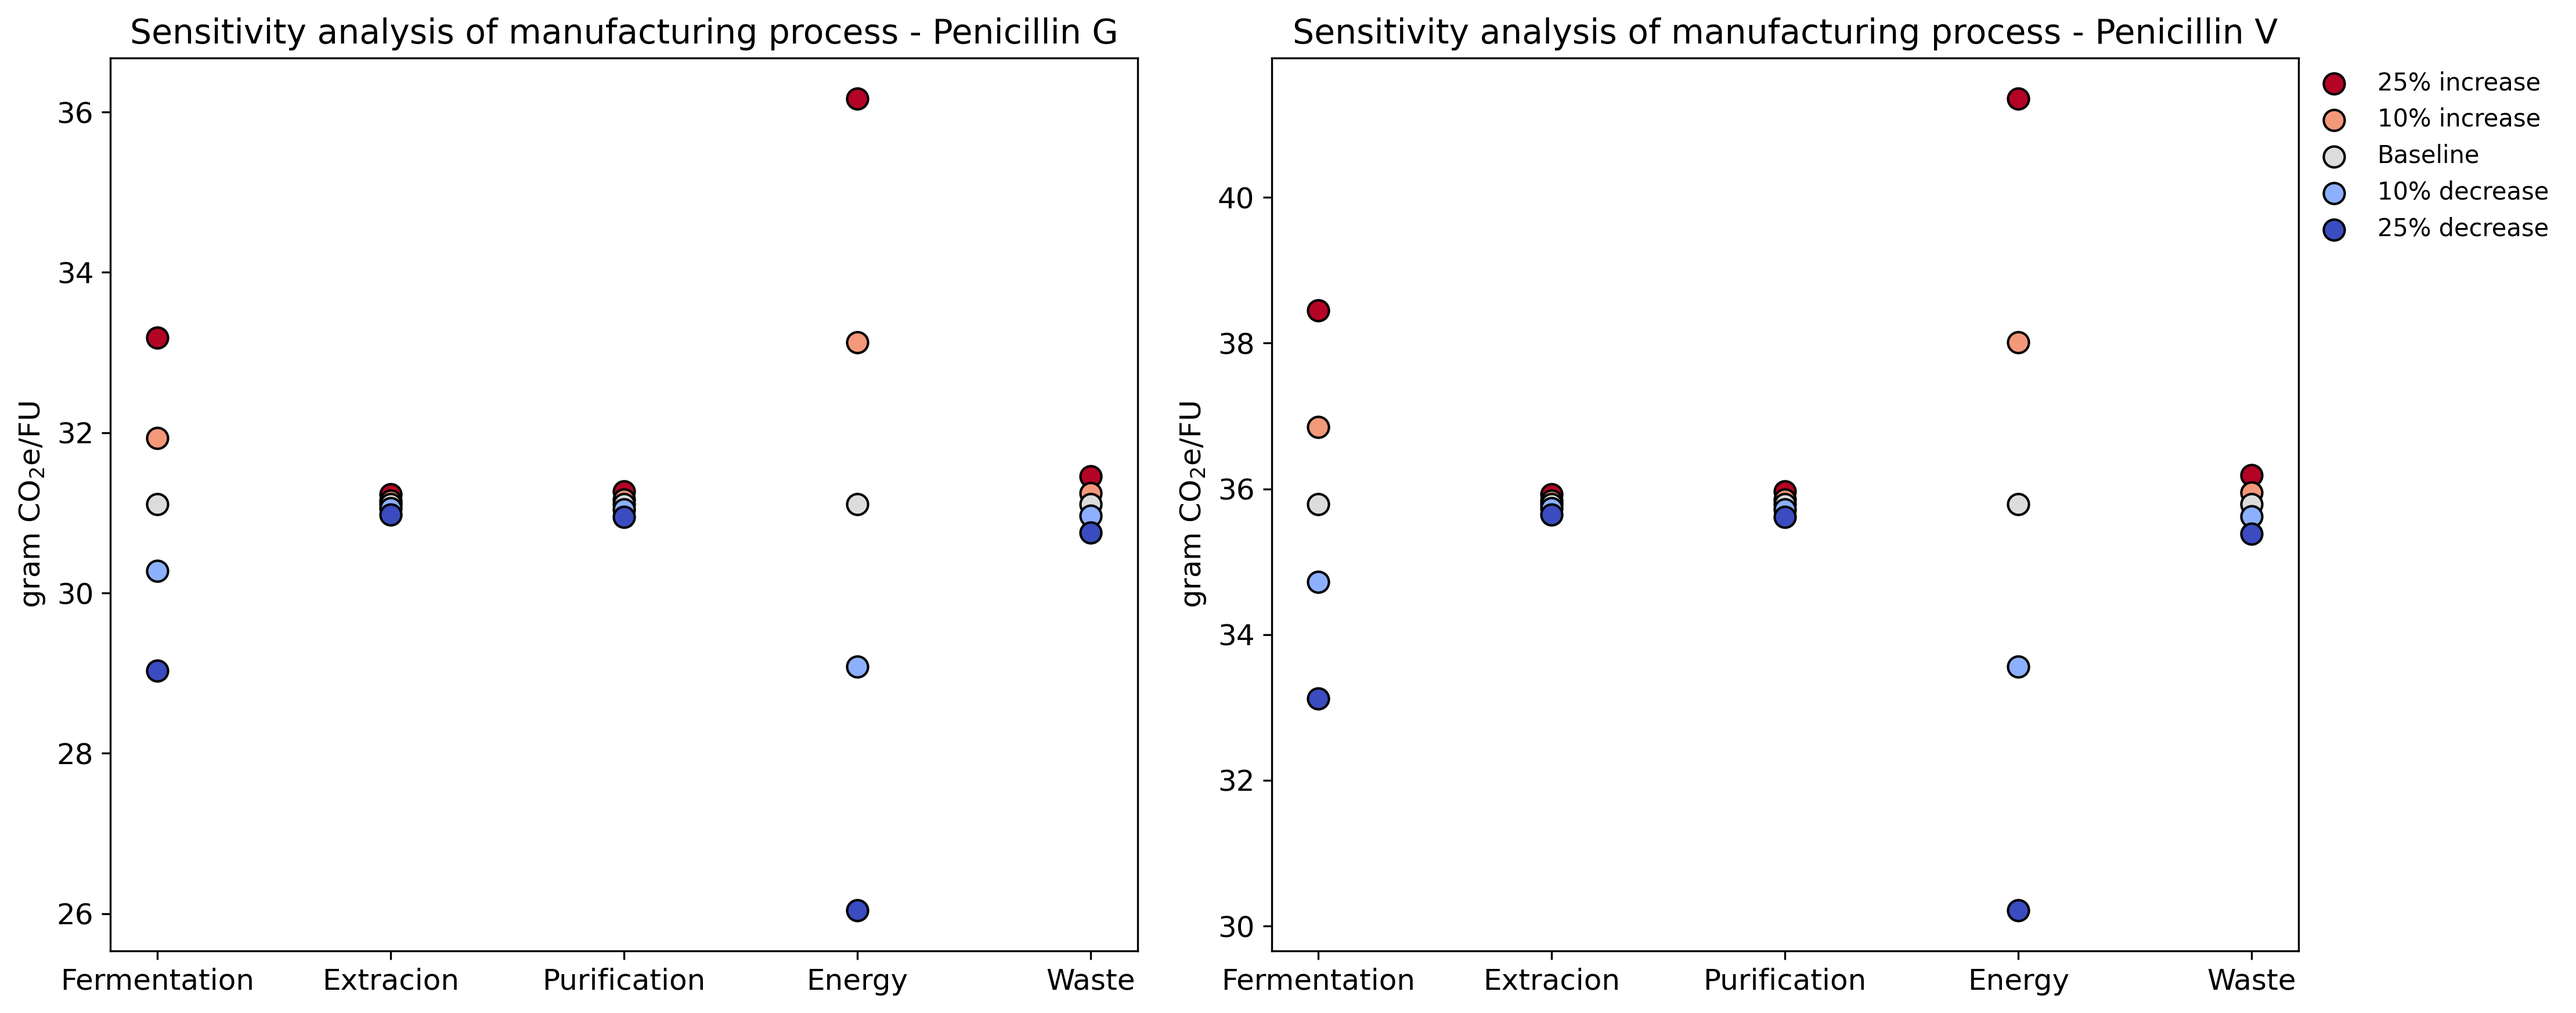
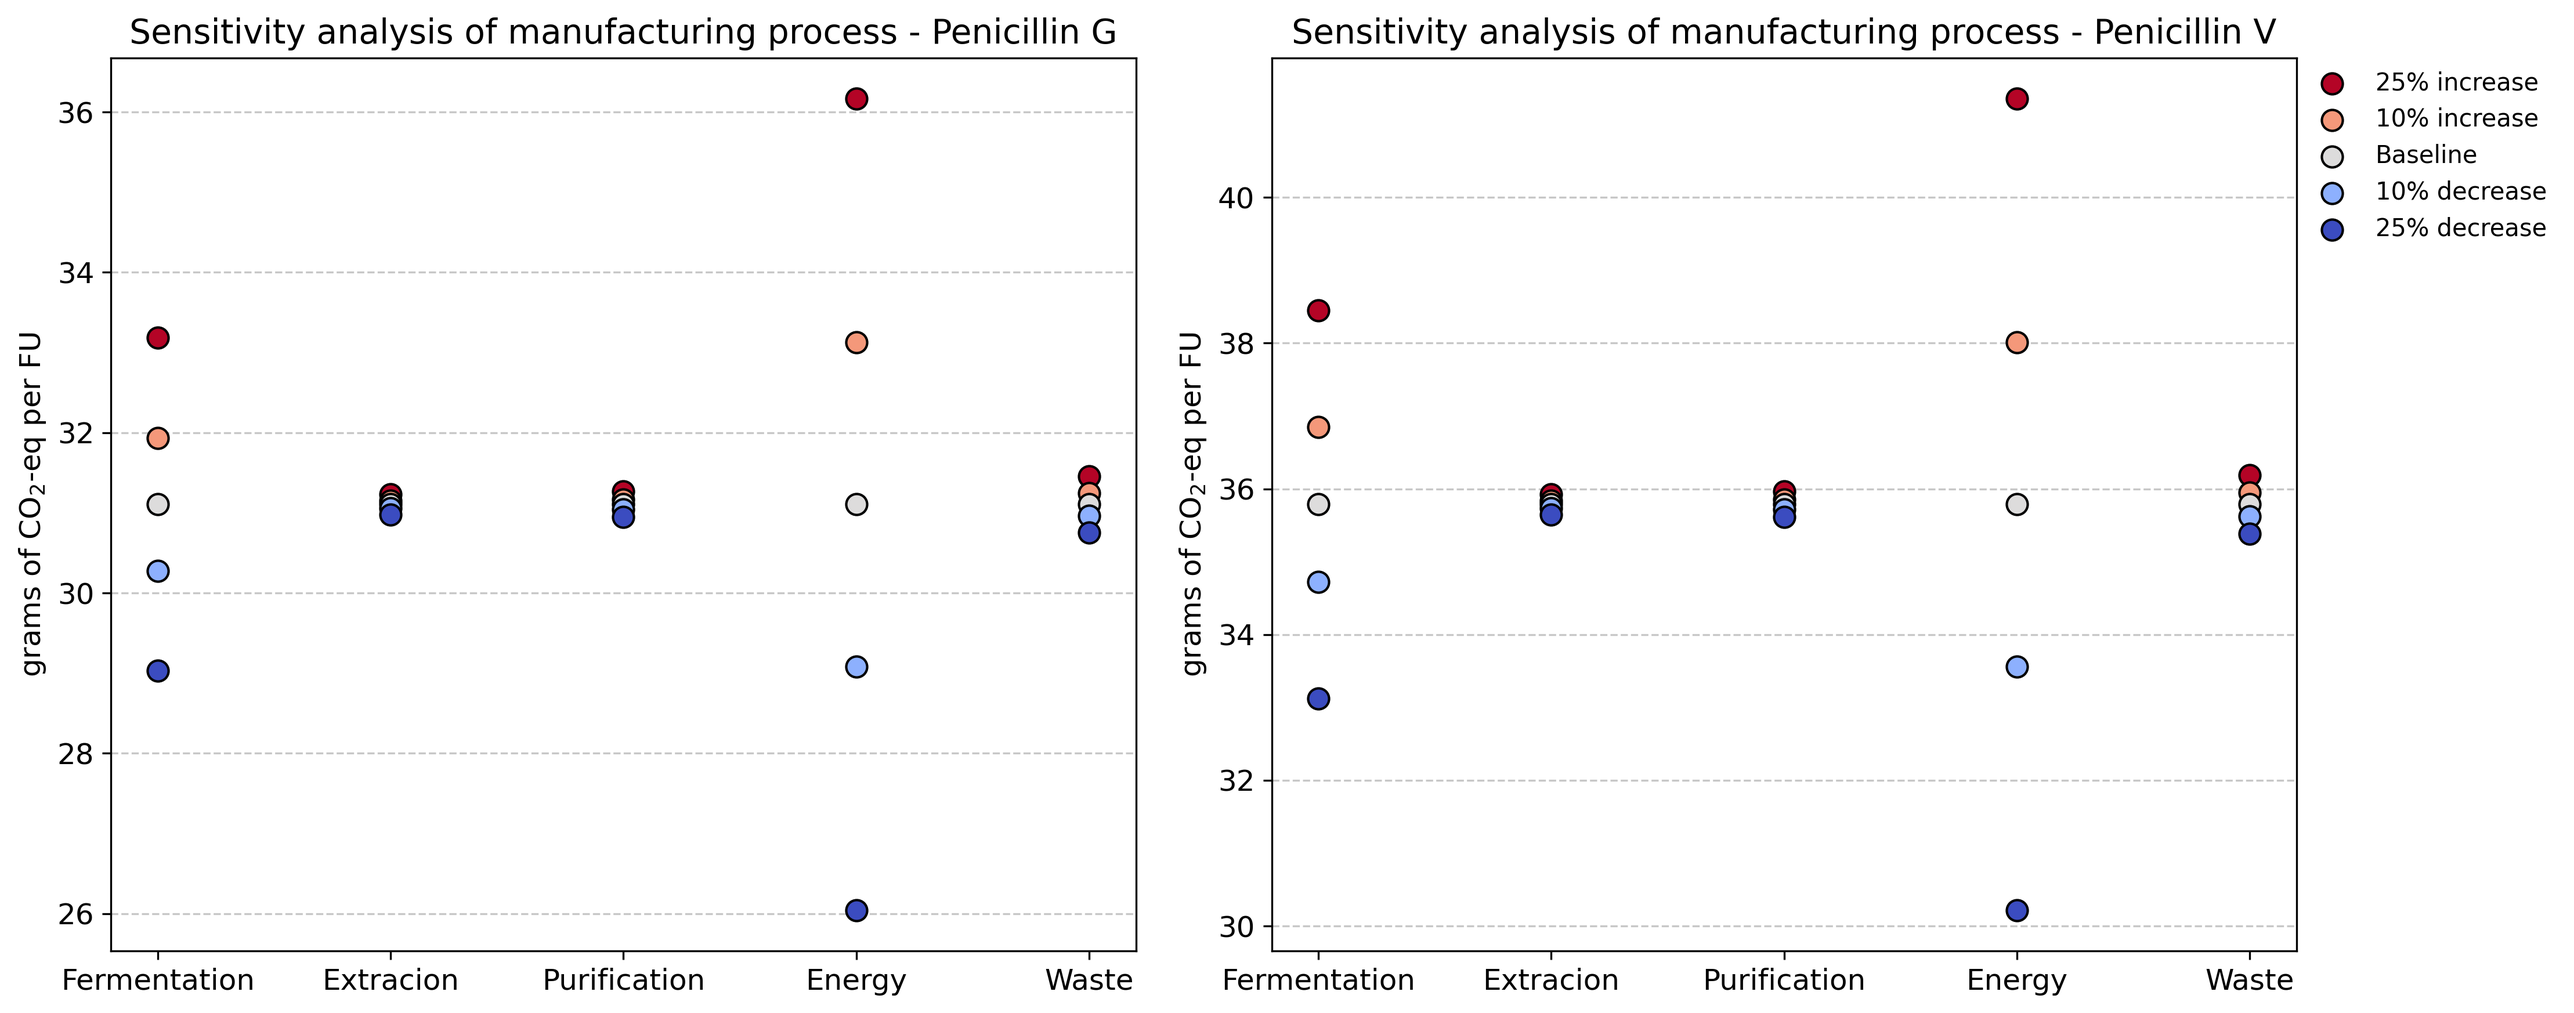
modified:   Libaries/__pycache__/results_figures.cpython-311.pyc 	modified:   Libaries/__pycache__/sensitivity.cpython-311.pyc 	modified:   Libaries/sensitivity.py 	modified:   results/figures/monte_carlo.png 	modified:   results/figures/penG_countries_sens.png 	new file:   results/figures/penV_coun

diff --git a/Libaries/sensitivity.py b/Libaries/sensitivity.py
@@ -291,15 +291,15 @@ def sensitivity_plot(pen_stat_tot):
         leg = []
         for idx, (_, row) in enumerate(df.iterrows()):
             for c, val in enumerate(row):
-                ax.scatter(idx, val, color=colors[c], edgecolor="k", s=75)
+                ax.scatter(idx, val, color=colors[c], edgecolor="k", s=75, zorder=10)
             sensitivity_legend(col_sens, idx, leg)
                 
         x = np.arange(len(row.to_numpy()))
         ax.set_xticks(x)
         ax.set_xticklabels(df.index, rotation=0)
-        ax.set_ylabel('gram CO$_2$e/FU')
+        ax.set_ylabel('grams of CO$_2$-eq per FU')
         ax.set_title(f'Sensitivity analysis of manufacturing process - Penicillin {pen_type[-1]}')
-
+        ax.grid(axis='y', linestyle='--', alpha=0.7, zorder=-0)
 
     ax.legend(
         leg,
@@ -307,7 +307,7 @@ def sensitivity_plot(pen_stat_tot):
         bbox_to_anchor=(0.99, 1.01),
         frameon=False
     )
-
+    ax.grid(axis='y', linestyle='--', alpha=0.7, zorder=-0)
     plt.tight_layout()
     plt.savefig(output_file_sens, dpi=300, format='png', bbox_inches='tight')
     plt.show()
@@ -335,10 +335,11 @@ def monte_carlo_plot(stat_arr_dct, base=10, power=4):
         # Plot histogram
         plt.hist(samples, bins=40, color=colors[c], hatch=hatch_style[c], edgecolor="k", alpha=0.65, label=title_text(pen))
 
-    plt.xlabel('gram CO$_2$e/FU')
+    plt.xlabel('grams of CO$_2$-eq per FU')
     plt.ylabel('Frequency')
     plt.title('Monte Carlo simulation of the penicillin manufacturing')
     plt.legend(loc='upper right')
+    
     plt.tight_layout()
     plt.savefig(output_file_MC, dpi=300, format='png', bbox_inches='tight')
     plt.show()
@@ -644,7 +645,7 @@ def import_image_markers():
     return img_dct
 
 def x_y_axis_text(sorted_func_unit):
-    y_label = "gram CO$_2$-eq per FU"
+    y_label = "grams of CO$_2$-eq per FU"
 
     x_tick_label = []
     
@@ -691,6 +692,7 @@ def countries_penG_sens_plot(df, sorted_func_unit):
 
 def countries_penV_sens_plot(df, sorted_func_unit):
     figure_font_sizes()
+    output_file_countries_sens = r"C:\Users\ruw\Desktop\RA\penicilin\results\figures\penV_countries_sens.png"
     penV = df["Pen V"].to_dict()
 
     for key, val in penV.items():
@@ -722,6 +724,9 @@ def countries_penV_sens_plot(df, sorted_func_unit):
     ax.set_xticklabels(x_tick_label)
     ax.set_ylim(0, 50)
     plt.title("Penicillin V - Differet location of production site")
+
+    plt.tight_layout()
+    plt.savefig(output_file_countries_sens, dpi=300, format='png', bbox_inches='tight')
     plt.show()
 
 # Main function to perform sensitivity and uncertainty analysis
